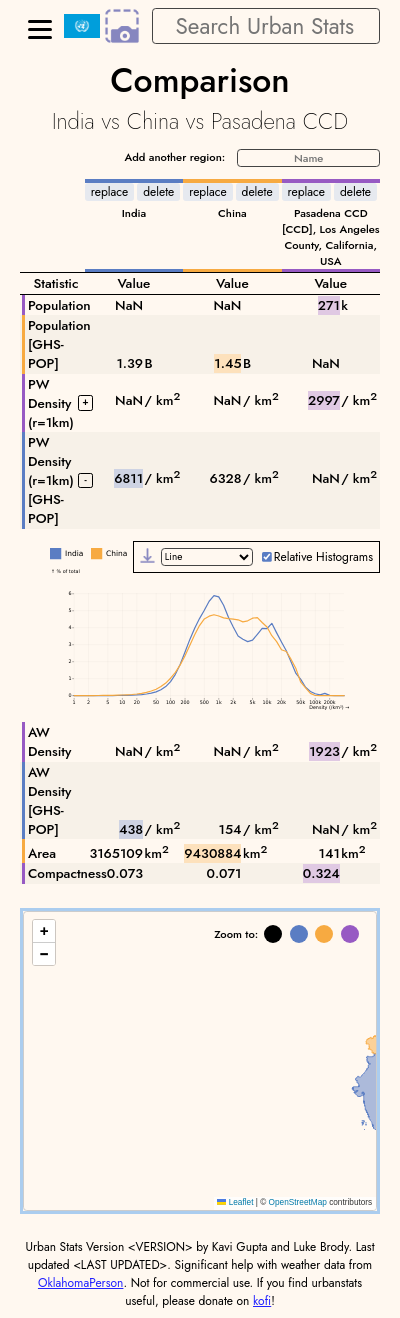
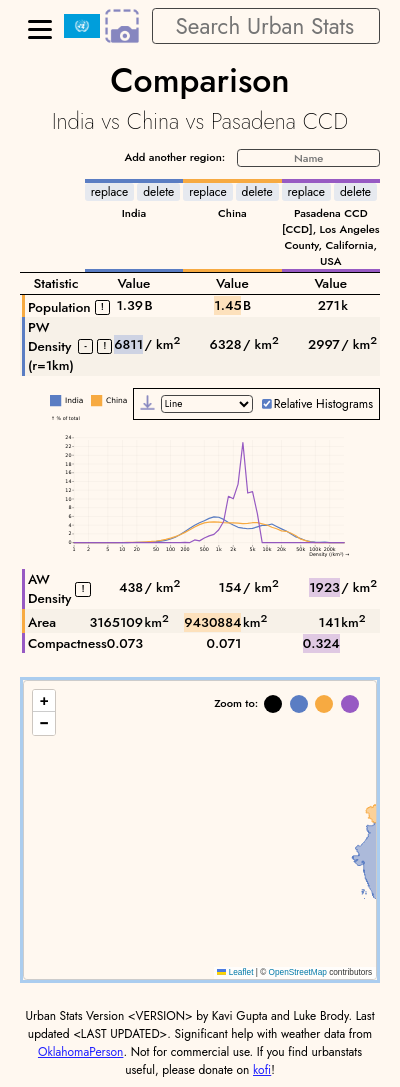
merge rows when sources do not overlap (#667)
Resolves #651 

Need to add tests before merging. Should not change more or less any
current tests

diff --git a/react/src/components/load-article.ts b/react/src/components/load-article.ts
@@ -5,7 +5,7 @@ import stats from '../data/statistic_list'
 import names from '../data/statistic_name_list'
 import paths from '../data/statistic_path_list'
 import { StatGroupSettings, statIsEnabled } from '../page_template/statistic-settings'
-import { findAmbiguousSourcesAll, statDataOrderToOrder, StatPath, statPathToOrder } from '../page_template/statistic-tree'
+import { findAmbiguousSourcesAll, statDataOrderToOrder, statParents, StatPath, statPathToOrder } from '../page_template/statistic-tree'
 import { Article } from '../utils/protos'
 
 export interface HistogramExtraStat {
@@ -27,6 +27,8 @@ export type ExtraStat = HistogramExtraStat | TimeSeriesExtraStat
 
 export type StatCol = (typeof stats)[number]
 
+export type Disclaimer = 'heterogenous-sources'
+
 export interface ArticleRow {
     statval: number
     ordinal: number
@@ -42,6 +44,7 @@ export interface ArticleRow {
     _index: number
     rendered_statname: string
     extra_stat?: ExtraStat
+    disclaimer?: Disclaimer
 }
 
 function lookup_in_compressed_sequence(seq: [number, number][], idx: number): number {
@@ -150,7 +153,8 @@ export function load_articles(datas: Article[], universe: string, settings: Stat
         .sort((a, b) => statPathToOrder.get(a.statpath)! - statPathToOrder.get(b.statpath)!),
     )
     const rowsNothingMissing = insert_missing(rows)
-    return { rows: rowsNothingMissing, statPaths: statPathsEach }
+    const rowsCollapsed = collapseAlternateSources(rowsNothingMissing)
+    return { rows: rowsCollapsed, statPaths: statPathsEach }
 }
 
 function insert_missing(rows: ArticleRow[][]): ArticleRow[][] {
@@ -193,4 +197,117 @@ function insert_missing(rows: ArticleRow[][]): ArticleRow[][] {
         new_rows_all.push(new_rows)
     }
     return new_rows_all
+}
+
+function collapseAlternateSources(rows: ArticleRow[][]): ArticleRow[][] {
+    // collapses multiple rows if they
+    // (1) have the same stat group and year
+    // (2) no two rows apply to the same article
+    // the set of rows must also be a set of all rows with the same stat group and year,
+    // minus any rows that apply to every article
+    // rows[article][stat_column]
+    if (rows.length === 0) {
+        return rows
+    }
+    const numRows = rows[0].length
+    if (numRows === 0) {
+        return rows
+    }
+    // ts Map guarantees insertion order
+    // rowsByStatGroupAndYear.get(key)[stat_column][article]
+    const rowsByStatGroupAndYear = new Map<string, ArticleRow[][]>()
+    const groupYearToName = new Map<string, string>()
+    for (let i = 0; i < numRows; i++) {
+        const { group, year, groupYearName } = statParents.get(rows[0][i].statpath)!
+        const key = `${group.id}_${year}`
+        if (!rowsByStatGroupAndYear.has(key)) {
+            rowsByStatGroupAndYear.set(key, [])
+        }
+        rowsByStatGroupAndYear.get(key)!.push(rows.map(row => row[i]))
+        groupYearToName.set(key, groupYearName)
+    }
+    const rowsCollapsed: ArticleRow[][] = []
+    for (const key of rowsByStatGroupAndYear.keys()) {
+        rowsCollapsed.push(...collapseAlternateSourcesSingleGroupYear(
+            rowsByStatGroupAndYear.get(key)!,
+            groupYearToName.get(key)!,
+        ))
+    }
+    return rowsCollapsed[0].map((_, i) => rowsCollapsed.map(row => row[i]))
+}
+
+function collapseAlternateSourcesSingleGroupYear(rows: ArticleRow[][], groupYearName: string): ArticleRow[][] {
+    // rows[stat_column][article]
+    if (rows.length === 1) {
+        return rows
+    }
+    // convert to a bitmap of whether each thing has a value (alternative is nan)
+    const hasValue = rows.map(row => row.map(x => !Number.isNaN(x.statval)))
+    const rowsC: ArticleRow[][] = []
+    const collapsedRows = computeCollapsedRows(new Map(hasValue.map((x, i) => [i, x])))
+    for (const collapsedRow of collapsedRows) {
+        rowsC.push(collapse(collapsedRow.map(i => rows[i]), groupYearName))
+    }
+    return rowsC
+}
+
+function computeCollapsedRows(hasValue: Map<number, boolean[]>): number[][] {
+    /**
+     * Takes the given hasValue array and computes the rows that should be collapsed
+     *
+     * We collapse a set of rows together if there is no overlap in the articles that have values
+     * for those rows. For now, we will just greedily construct sets of rows that should be
+     * collapsed together
+     *
+     * @param hasValue: A 2D array of booleans, where hasValue[stat_column][article]
+     *  is true if the article has a value for the stat column
+     *
+     * @returns: A list of lists of numbers. Each list of numbers is a set of rows that should
+     * be collapsed together. The numbers are the indices of the rows in the original array.
+     */
+    // if (hasValue.length === 0) {
+    //     return []
+    // }
+    if (hasValue.size === 0) {
+        return []
+    }
+    const idx = Array.from(hasValue.keys())[0]
+    const byArticle = hasValue.get(idx)!
+    // const lastIdx = hasValue.length - 1
+    // if last stat is available in all articles, it cannot be collapsed with anything
+    // same if it is not available in any article
+    if (byArticle.every(x => x) || byArticle.every(x => !x)) {
+        return [[idx], ...computeCollapsedRows(new Map(Array.from(hasValue).slice(1)))]
+    }
+    const rowIdxs = [idx]
+    const covered: boolean[] = [...byArticle]
+    for (const [idx2, byArticle2] of hasValue) {
+        if (byArticle2.every((x, i) => !x || !covered[i])) {
+            rowIdxs.push(idx2)
+            for (let i = 0; i < covered.length; i++) {
+                covered[i] = covered[i] || byArticle2[i]
+            }
+        }
+    }
+    const filtMap = new Map(Array.from(hasValue).filter(([idx2]) => !rowIdxs.includes(idx2)))
+    return [rowIdxs, ...computeCollapsedRows(filtMap)]
+}
+
+function collapse(rows: ArticleRow[][], groupYearName: string): ArticleRow[] {
+    // rows[stat_column][article]
+    if (rows.length === 1) {
+        return rows[0]
+    }
+    const rowsByArticle = rows[0].map((_, i) => rows.map(row => row[i]))
+    return rowsByArticle.map((rowsForArticle) => {
+        const rowsWithValues = rowsForArticle.filter(row => !Number.isNaN(row.statval))
+        if (rowsWithValues.length !== 1) {
+            throw new Error('Cannot collapse rows with none, or multiple, values')
+        }
+        // row is a copy of rowsWithValues[0]
+        const row = JSON.parse(JSON.stringify(rowsWithValues[0])) as ArticleRow
+        row.rendered_statname = groupYearName
+        row.disclaimer = 'heterogenous-sources'
+        return row
+    })
 }

diff --git a/react/src/components/table.tsx b/react/src/components/table.tsx
@@ -4,14 +4,14 @@ import ContentEditable, { ContentEditableEvent } from 'react-contenteditable'
 import { load_ordering } from '../load_json'
 import { article_link, statistic_link } from '../navigation/links'
 import './table.css'
-import { useColors } from '../page_template/colors'
+import { Colors, useColors } from '../page_template/colors'
 import { MobileArticlePointers, row_expanded_key, Settings, useSetting } from '../page_template/settings'
 import { useUniverse } from '../universe'
 import { is_historical_cd } from '../utils/is_historical'
 import { isMobileLayout, useMobileLayout } from '../utils/responsive'
 import { display_type } from '../utils/text'
 
-import { ArticleRow } from './load-article'
+import { ArticleRow, Disclaimer } from './load-article'
 import { useScreenshotMode } from './screenshot'
 
 export type ColumnIdentifier = 'statname' | 'statval' | 'statval_unit' | 'statistic_percentile' | 'statistic_ordinal' | 'pointer_in_class' | 'pointer_overall'
@@ -406,6 +406,15 @@ function PointerRowCells(props: { ordinal_style: CSSProperties, row: ArticleRow 
     }
 }
 
+function articleStatnameButtonStyle(colors: Colors): React.CSSProperties {
+    return {
+        cursor: 'pointer', border: `1px solid ${colors.textMain}`,
+        padding: 0, borderRadius: '3px', fontSize: '75%',
+        minWidth: '1.5em', minHeight: '1.5em', textAlign: 'center',
+        lineHeight: '1.2em',
+    }
+}
+
 function StatisticName(props: {
     row: ArticleRow
     longname: string
@@ -434,16 +443,14 @@ function StatisticName(props: {
             <div
                 className="expand-toggle"
                 onClick={() => { setExpanded(!expanded) }}
-                style={{
-                    cursor: 'pointer', border: `1px solid ${colors.textMain}`,
-                    padding: 0, borderRadius: '3px', fontSize: '75%',
-                    minWidth: '1.5em', minHeight: '1.5em', textAlign: 'center',
-                    lineHeight: '1.2em',
-                }}
+                style={articleStatnameButtonStyle(colors)}
             >
                 {expanded ? '-' : '+'}
             </div>,
         )
+    }
+    if (props.row.disclaimer !== undefined) {
+        elements.push(<StatisticNameDisclaimer disclaimer={props.row.disclaimer} />)
     }
     if (elements.length > 1) {
         const paddedElements = [elements[0]]
@@ -463,6 +470,46 @@ function StatisticName(props: {
         )
     }
     return link
+}
+
+function computeDisclaimerText(disclaimer: Disclaimer): string {
+    switch (disclaimer) {
+        case 'heterogenous-sources':
+            return 'This statistic is based on data from multiple sources, which may not be consistent with each other.'
+    }
+}
+
+function StatisticNameDisclaimer(props: { disclaimer: Disclaimer }): ReactNode {
+    // little disclaimer icon that pops up a tooltip when clicked
+    const [show, setShow] = useState(false)
+    const colors = useColors()
+    const tooltipStyle: React.CSSProperties = {
+        position: 'absolute',
+        backgroundColor: colors.slightlyDifferentBackgroundFocused,
+        color: colors.textMain,
+        padding: '0.5em',
+        borderRadius: '0.5em',
+        border: `1px solid ${colors.textMain}`,
+        zIndex: 100000,
+        display: show ? 'block' : 'none',
+    }
+    return (
+        <span>
+            <span
+                className="disclaimer-toggle"
+                style={{ ...articleStatnameButtonStyle(colors), display: 'inline-block' }}
+                onClick={() => { setShow(!show) }}
+            >
+                !
+            </span>
+            <div
+                style={tooltipStyle}
+                onClick={() => { setShow(false) }}
+            >
+                {computeDisclaimerText(props.disclaimer)}
+            </div>
+        </span>
+    )
 }
 
 export function TableRowContainer({ children, index }: { children: React.ReactNode, index: number }): React.ReactNode {

diff --git a/react/test/histogram_test.ts b/react/test/histogram_test.ts
@@ -70,8 +70,8 @@ test('histogram-basic-comparison-nan', async (t) => {
     await waitForLoading(t) // Need to avoid a race condition between map loading and page resizing
     await t.resizeWindow(400, 800)
     // select element with class name `expand-toggle`
-    await t.expect(Selector('.expand-toggle').count).eql(2)
-    await t.click(Selector('.expand-toggle').nth(1))
+    await t.expect(Selector('.expand-toggle').count).eql(1)
+    await t.click(Selector('.expand-toggle').nth(0))
     await screencap(t)
     await download_or_check_histogram(t, 'histogram-basic-comparison-nan')
 })
@@ -82,8 +82,8 @@ test('histogram-basic-comparison-nan-middle', async (t) => {
     await waitForLoading(t) // Need to avoid a race condition between map loading and page resizing
     await t.resizeWindow(400, 800)
     // select element with class name `expand-toggle`
-    await t.expect(Selector('.expand-toggle').count).eql(2)
-    await t.click(Selector('.expand-toggle').nth(1))
+    await t.expect(Selector('.expand-toggle').count).eql(1)
+    await t.click(Selector('.expand-toggle').nth(0))
     await screencap(t)
     await download_or_check_histogram(t, 'histogram-basic-comparison-nan-middle')
 })

diff --git a/react/src/page_template/statistic-tree.ts b/react/src/page_template/statistic-tree.ts
@@ -114,14 +114,21 @@ export const allYears = Array.from(
         .filter(year => year !== null)),
 ).sort(sortYears)
 
-const statParentsList: [StatPath, { group: Group, year: Year | null, source: DataSource | null }][] = allGroups
+interface StatParent {
+    group: Group
+    year: Year | null
+    groupYearName: string
+    source: DataSource | null
+}
+
+const statParentsList: [StatPath, StatParent][] = allGroups
     .flatMap(group => group.contents
         .flatMap(({ year, stats }) => stats
             .flatMap(stat => stat.by_source
                 .map(({ source, path }) =>
-                    [path, { group, year, source }] satisfies [StatPath, { group: Group, year: Year | null, source: DataSource | null }]))))
+                    [path, { group, year, groupYearName: stat.name, source }] satisfies [StatPath, StatParent]))))
 
-export const statParents = new Map<StatPath, { group: Group, year: Year | null, source: DataSource | null }>(
+export const statParents = new Map<StatPath, StatParent>(
     statParentsList,
 )
 

diff --git a/react/test/comparison_test.ts b/react/test/comparison_test.ts
@@ -136,7 +136,10 @@ test('comparison-2-non-overlapping-population-stats', async (t) => {
     // no overlap: both are forced onto the screen
     await t.expect(await checkboxStatus('US Census')).eql('missing')
     await t.expect(await checkboxStatus('GHSL')).eql('missing')
-    await t.expect(await dataValues()).eql(['119', 'NaN', 'NaN', '419'])
+    await t.expect(await dataValues()).eql(['119', '419'])
+    await screencap(t)
+    await t.click(Selector('.disclaimer-toggle'))
+    await screencap(t)
 })
 
 urbanstatsFixture(
